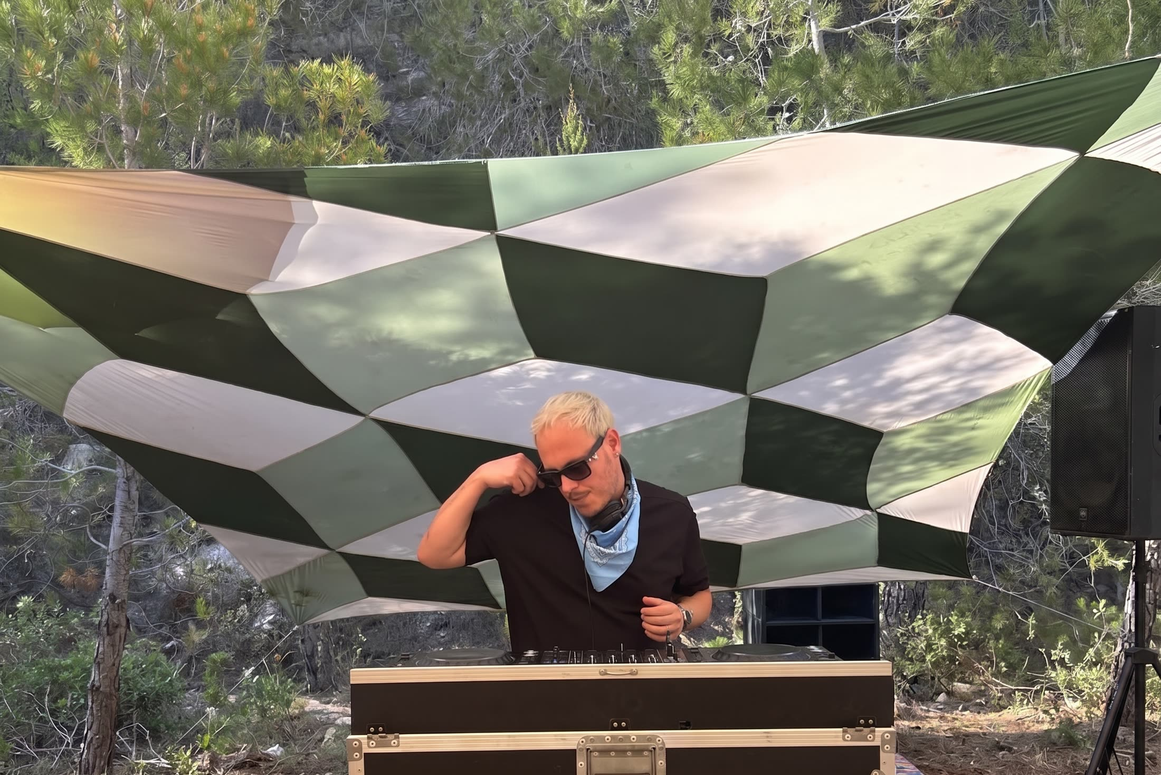
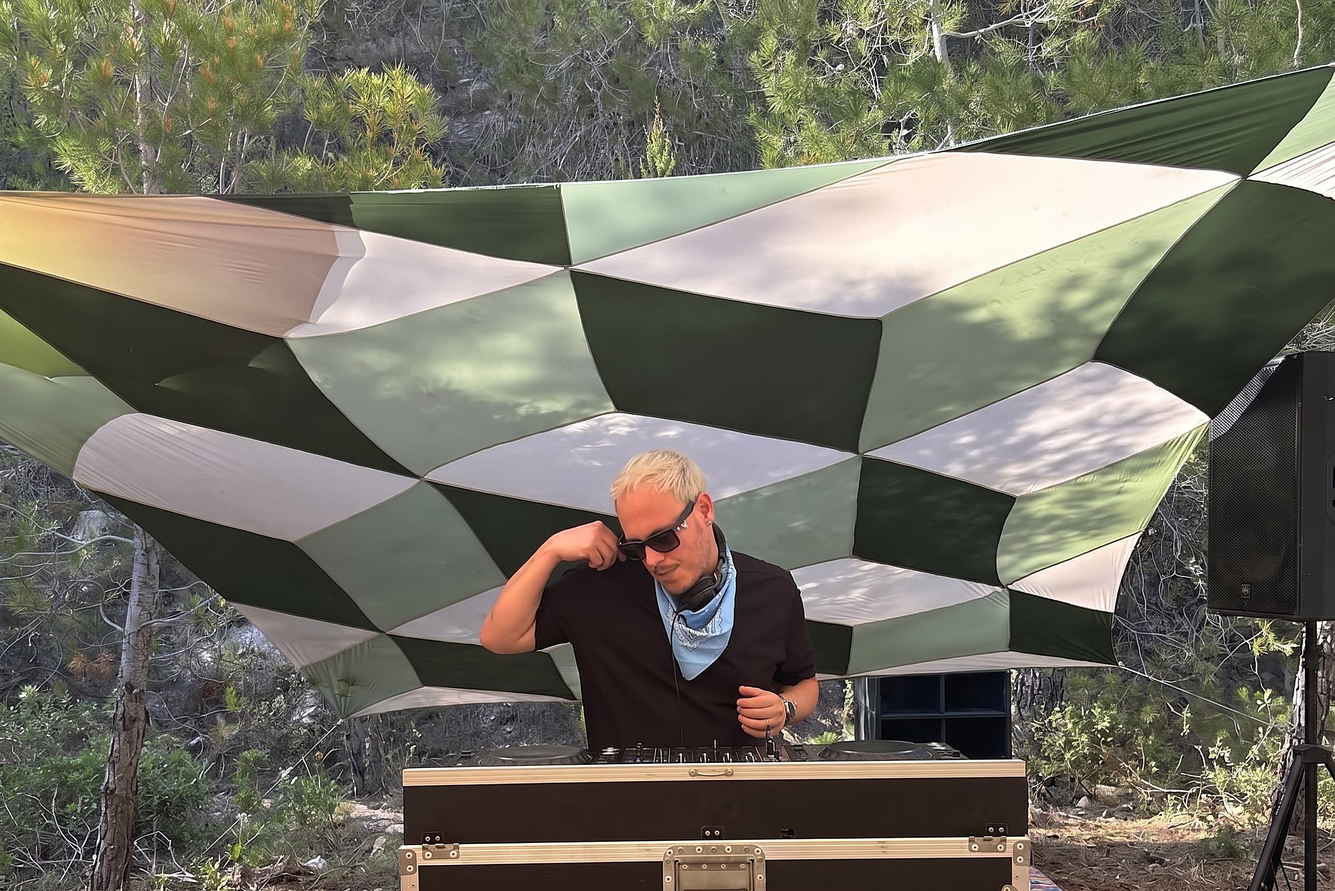
Sharpen the hero: native resolution, and an unsharp pass after resampling
The photo was downscaled 2528 to 2200 and re-encoded without any sharpening
afterwards, which is what softened it. On a 3x phone that left about 1.15 device
pixels per source pixel, barely above 1:1, with resampling softness on top.

Both plates are rebuilt from the original at its native 2528x1688 with an unsharp
pass. Tested against a sharpened 2200 version: the two came out within 4KB of
each other, so the native resolution is effectively free once sharpening is
applied, and it is the better of the two. His face comes off the cutout plate
rather than the photograph, so that is rebuilt the same way and lifted from the
original rather than from the already-compressed copy.

The facet polygons live in a 2200x1468 viewBox. The new file's aspect differs by
0.07%, which works out at 1.5px over the full height, so they stay registered.

Both image URLs now carry a version. The stylesheet already had one, but the
images did not, so a returning visitor would have kept the soft versions
indefinitely. The og:image is deliberately left bare for crawlers.

Costs 280KB: hero.jpeg goes 424KB to 704KB.

diff --git a/dj/index.html b/dj/index.html
@@ -23,8 +23,8 @@
 <link href="https://fonts.googleapis.com/css2?family=Sora:wght@400;600;700;800&family=Manrope:wght@400;500;600;700&display=swap" rel="stylesheet">
 <link rel="stylesheet" href="https://cdnjs.cloudflare.com/ajax/libs/font-awesome/6.5.2/css/all.min.css">
 
-<link rel="preload" as="image" href="assets/hero.jpeg">
-<link rel="preload" as="image" href="assets/hero-subject.webp">
+<link rel="preload" as="image" href="assets/hero.jpeg?v=2">
+<link rel="preload" as="image" href="assets/hero-subject.webp?v=2">
 <!-- Bump ?v= on every stylesheet change. Pages is served with a long
      cache lifetime, so without this the HTML updates while the CSS does not,
      which looks exactly like a change that failed to deploy. -->
@@ -41,7 +41,7 @@
     <!-- Two plates over the untouched photo, one behind the wash and one in
          front of it. Both are static: they exist to sandwich the glow. -->
     <div class="photo__plate photo__plate--back">
-      <img src="assets/hero.jpeg" alt="Liav Chanoch DJing outdoors under a green and white checkered shade sail, pine trees behind him.">
+      <img src="assets/hero.jpeg?v=2" alt="Liav Chanoch DJing outdoors under a green and white checkered shade sail, pine trees behind him.">
     </div>
     <!-- The wash sits BETWEEN the two plates, so he is protected by stacking
          order rather than by a mask: it simply never paints over him. -->
@@ -64,7 +64,7 @@
       <polygon style="--i:11" points="1810,594 1823,548 1885,462 1948,393 2050,297 2110,302 2206,329 2200,500 2010,679 1976,674"/>
     </svg>
     <div class="photo__plate photo__plate--fore" aria-hidden="true">
-      <img src="assets/hero-subject.webp" alt="">
+      <img src="assets/hero-subject.webp?v=2" alt="">
     </div>
   </div>
 
